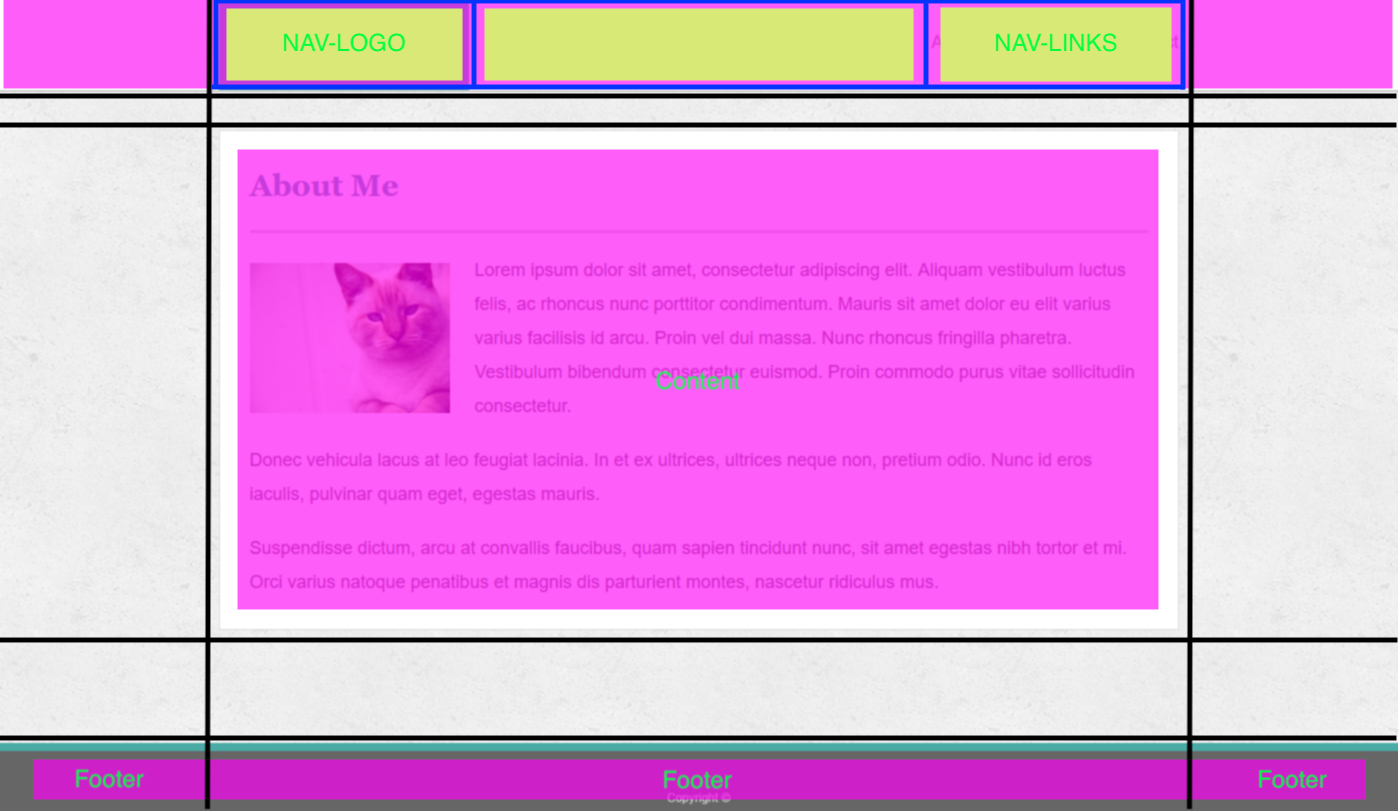
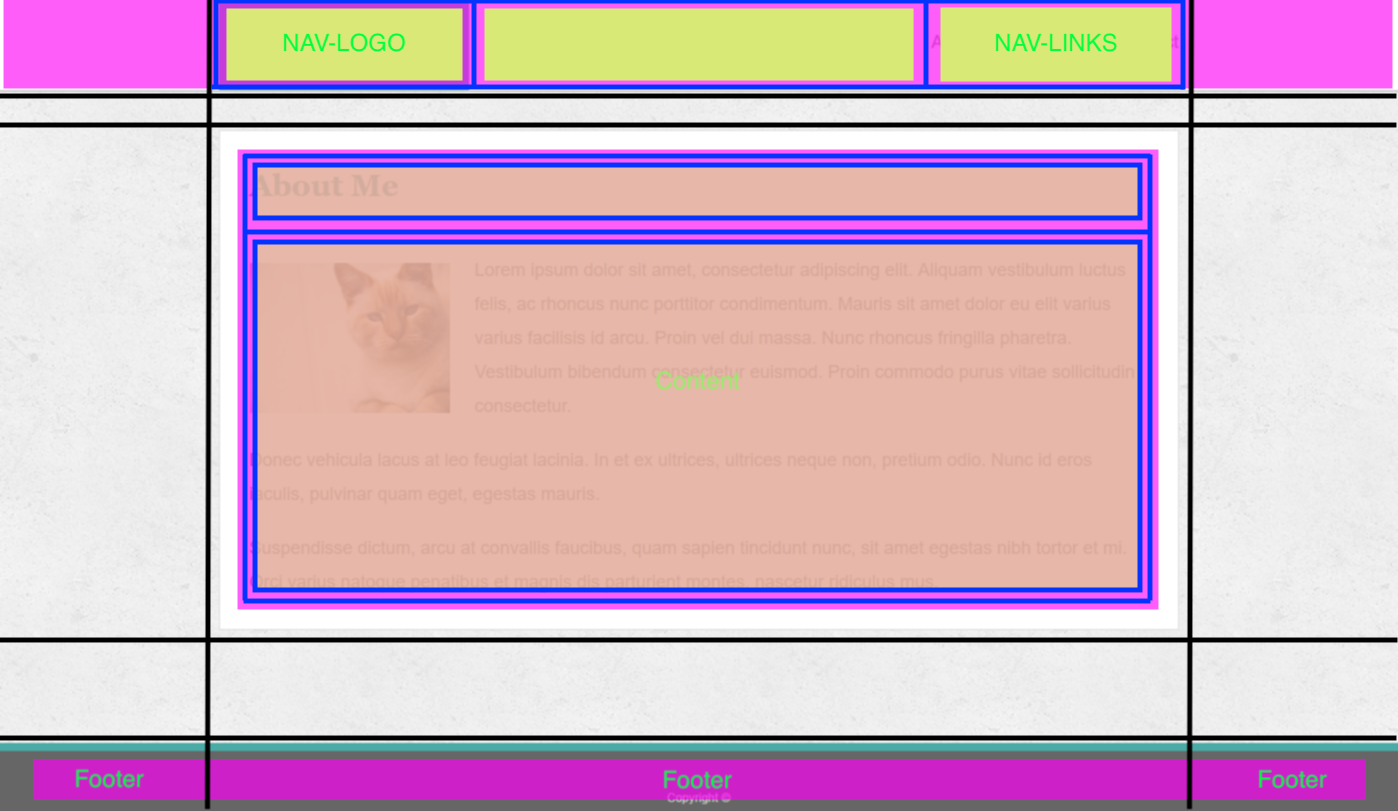
Added some new styles for homepage and added links to other pages

diff --git a/grid-basic-portfolio/index.html b/grid-basic-portfolio/index.html
@@ -4,8 +4,11 @@
   <meta charset="UTF-8">
   <meta name="viewport" content="width=device-width, initial-scale=1.0">
   <meta http-equiv="X-UA-Compatible" content="ie=edge">
-  <link rel="stylesheet" href="style.css">
-  <title>NavbarTest</title>
+  <link href="https://fonts.googleapis.com/css?family=Open+Sans&display=swap" rel="stylesheet">
+  <link rel="stylesheet" href="./styles/homepage-layout.css">
+  <link rel="stylesheet" href="./styles/style.css">
+  <link rel="stylesheet" href="./styles/homepage-media-queries.css">
+  <title>Basic Portfolio Grid</title>
 </head>
 <body>
 
@@ -16,15 +19,18 @@
       </div>
       <div class="nav-links">
         <div class="nav-link">
-          About
+          <a href="./index.html">About</a>
+          <!-- About -->
         </div>
         <div class="nav-pipe">|</div>
         <div class="nav-link nav-link-bottom">
-          Portfolio
+          <a href="./portfolio.html">Portfolio</a>
+          <!-- Portfolio -->
         </div>
         <div class="nav-pipe">|</div>
         <div class="nav-link nav-link-bottom">
-          Contact
+          <a href="./contact.html">Contact</a>
+          <!-- Contact -->
         </div>
       </div>
     </div>
@@ -34,9 +40,17 @@
       <div class="content-container">
         <div class="content-header">
           About Me
+          <hr>
         </div>
         <div class="content-text">
-          Lorem ipsum dolor sit amet consectetur adipisicing elit. Ex consequuntur illo quis, iure magni vel sit distinctio totam accusantium modi, nostrum enim porro ratione corrupti id odit! Est, voluptatibus repellendus?
+          <img class="content-image" src="./images/dan_flying.jpg" alt="Dan Flying">
+          <p class="content-text">
+            Passionate, responsible and committed Developer, with a get-it-done, on-time spirit with experience designing, implementing and adapting technically sophisticated online web applications using Html, CSS, Javascript, React, Python and more.  Experienced Manager with a demonstrated history of working in the retail industry. Recently graduated from Bottega Tech in the "Full Stack Web Development Program with Python + React/JS".. In my personal time, I enjoy playing video games coding or playing one of the many instruments in my music room.
+          </p>
+          <p class="content-text">
+            I'm currently a mentor with Code To Success at Jordan High School.  I get to take the knowledge I learned from my time with Bottega and pass it onto the younger generation.
+          </p>
+
         </div>
       </div>
       </div>

diff --git a/grid-basic-portfolio/styles/homepage-layout.css b/grid-basic-portfolio/styles/homepage-layout.css
@@ -1,0 +1,80 @@
+Body Grid Layout
+* {
+  box-sizing: border-box;
+}
+
+body {
+  background-color: #BBCDE5;
+  height: 100vh;
+  margin: 0px;
+  display: grid;
+  grid-template-columns: 100px 1fr 100px;
+  grid-template-rows: 100px 40px auto 1fr 50px;
+  grid-template-areas: 
+    "navWrapper navWrapper navWrapper"
+    ". . ."
+    ". contentWrapper ."
+    ". . ."
+    " footerWrapper footerWrapper footerWrapper";
+}
+
+.nav-wrapper {
+  grid-area: navWrapper;
+}
+.content-wrapper {
+  grid-area: contentWrapper;
+}
+.footer-wrapper {
+  grid-area: footerWrapper;
+}
+
+/* Navigation Grid Layout */
+.nav-wrapper {
+  display: grid;
+  grid-template-columns: 100px 1fr 100px;
+  grid-template-areas: 
+    ". navContainer .";
+  background-color: #FFFFFF;
+  border-bottom: 1px solid #13293D;
+}
+
+.nav-container {
+  grid-area: navContainer;
+  display: grid;
+  grid-template-columns: 200px 1fr 250px;
+  grid-template-areas: 
+    "navLogo . navLinks";
+}
+
+.nav-logo {
+  grid-row: 1;
+  grid-area: navLogo;
+  display: flex;
+  justify-content: center;
+  align-items: center;
+}
+
+.nav-links {
+  grid-row: 1;
+  grid-area: navLinks;
+  display: flex;
+  justify-content: space-between;
+  align-items: center;
+}
+
+/* Content Layout */
+
+.content-container {
+  display: grid;
+}
+
+.content-image {
+  float: left;
+}
+
+/* Footer Layout */
+.footer-wrapper {
+  display: flex;
+  justify-content: center;
+  align-items: center;
+}

diff --git a/grid-basic-portfolio/styles/homepage-media-queries.css b/grid-basic-portfolio/styles/homepage-media-queries.css
@@ -1,0 +1,53 @@
+/* Media Queries */
+
+@media only screen and (max-width: 660px) {
+  body {
+    grid-template-rows: 200px 40px 1fr 40px 50px;
+    grid-template-columns: 20px 1fr 20px;
+  }
+  .nav-wrapper {
+    display: flex;
+    flex-direction: column;
+  }
+  .nav-container {
+    display: flex;
+    flex-direction: column;
+  }
+  .nav-logo {
+    height: 50px;
+  }
+  
+  .nav-links {
+    flex-direction: column;
+    background-color: #13293D;
+    font-weight: 900;
+    font-size: 1.2em;
+  }
+  
+  .nav-link {
+    display: flex;
+    justify-content: center;
+    align-items: center;
+    color: #FFFFFF;
+    height: 50px;
+    width: 100%;
+    /* border-top: 1px solid #BBCDE5; */
+  }
+  
+  .nav-links a {
+    color: #FFFFFF;
+  }
+  
+  .nav-link-bottom {
+    border-top: 1px solid #BBCDE5;
+    border-top: 1px solid #639FAB;
+  }
+
+  .nav-link:hover {
+    background-color: #BBCDE5;
+  }
+
+  .nav-pipe {
+    display: none;
+  }
+}

diff --git a/grid-basic-portfolio/styles/style.css b/grid-basic-portfolio/styles/style.css
@@ -1,0 +1,58 @@
+
+
+/* Common Styling */
+
+body {
+  font-family: 'Open Sans', sans-serif;;
+}
+
+/* Nav Styling */
+
+.nav-logo {
+  font-weight: 900;
+  font-size: 1.2em;
+  color: #FFFFFF;
+  background-color: #639FAB;
+}
+
+.nav-links a {
+  color: #13293D;
+  text-decoration: none;
+}
+
+/* Content Styling */
+.content-wrapper {
+  color: #13293D;
+  background-color: #FFFFFF;
+  box-shadow: 1px 1px 10px #13293D;
+  border-radius: 10px;
+  padding: 20px;
+}
+.content-header {
+  font-weight: 900;
+  font-size: 2em;
+  color: #13293D;
+}
+
+hr {
+  border: 1px solid #13293D;
+}
+.content-image {
+  width: 200px;
+  margin: 20px 20px 20px 0px;
+  border-radius: 10px;
+}
+
+.content-text {
+  letter-spacing: 1px;
+  line-height: 30px;
+  color: #13293D;
+}
+
+
+/* Footer Styling */
+.footer-wrapper {
+  color: #FFFFFF;
+  background-color: #13293D;
+  border-top: 4px solid #639FAB;
+}
